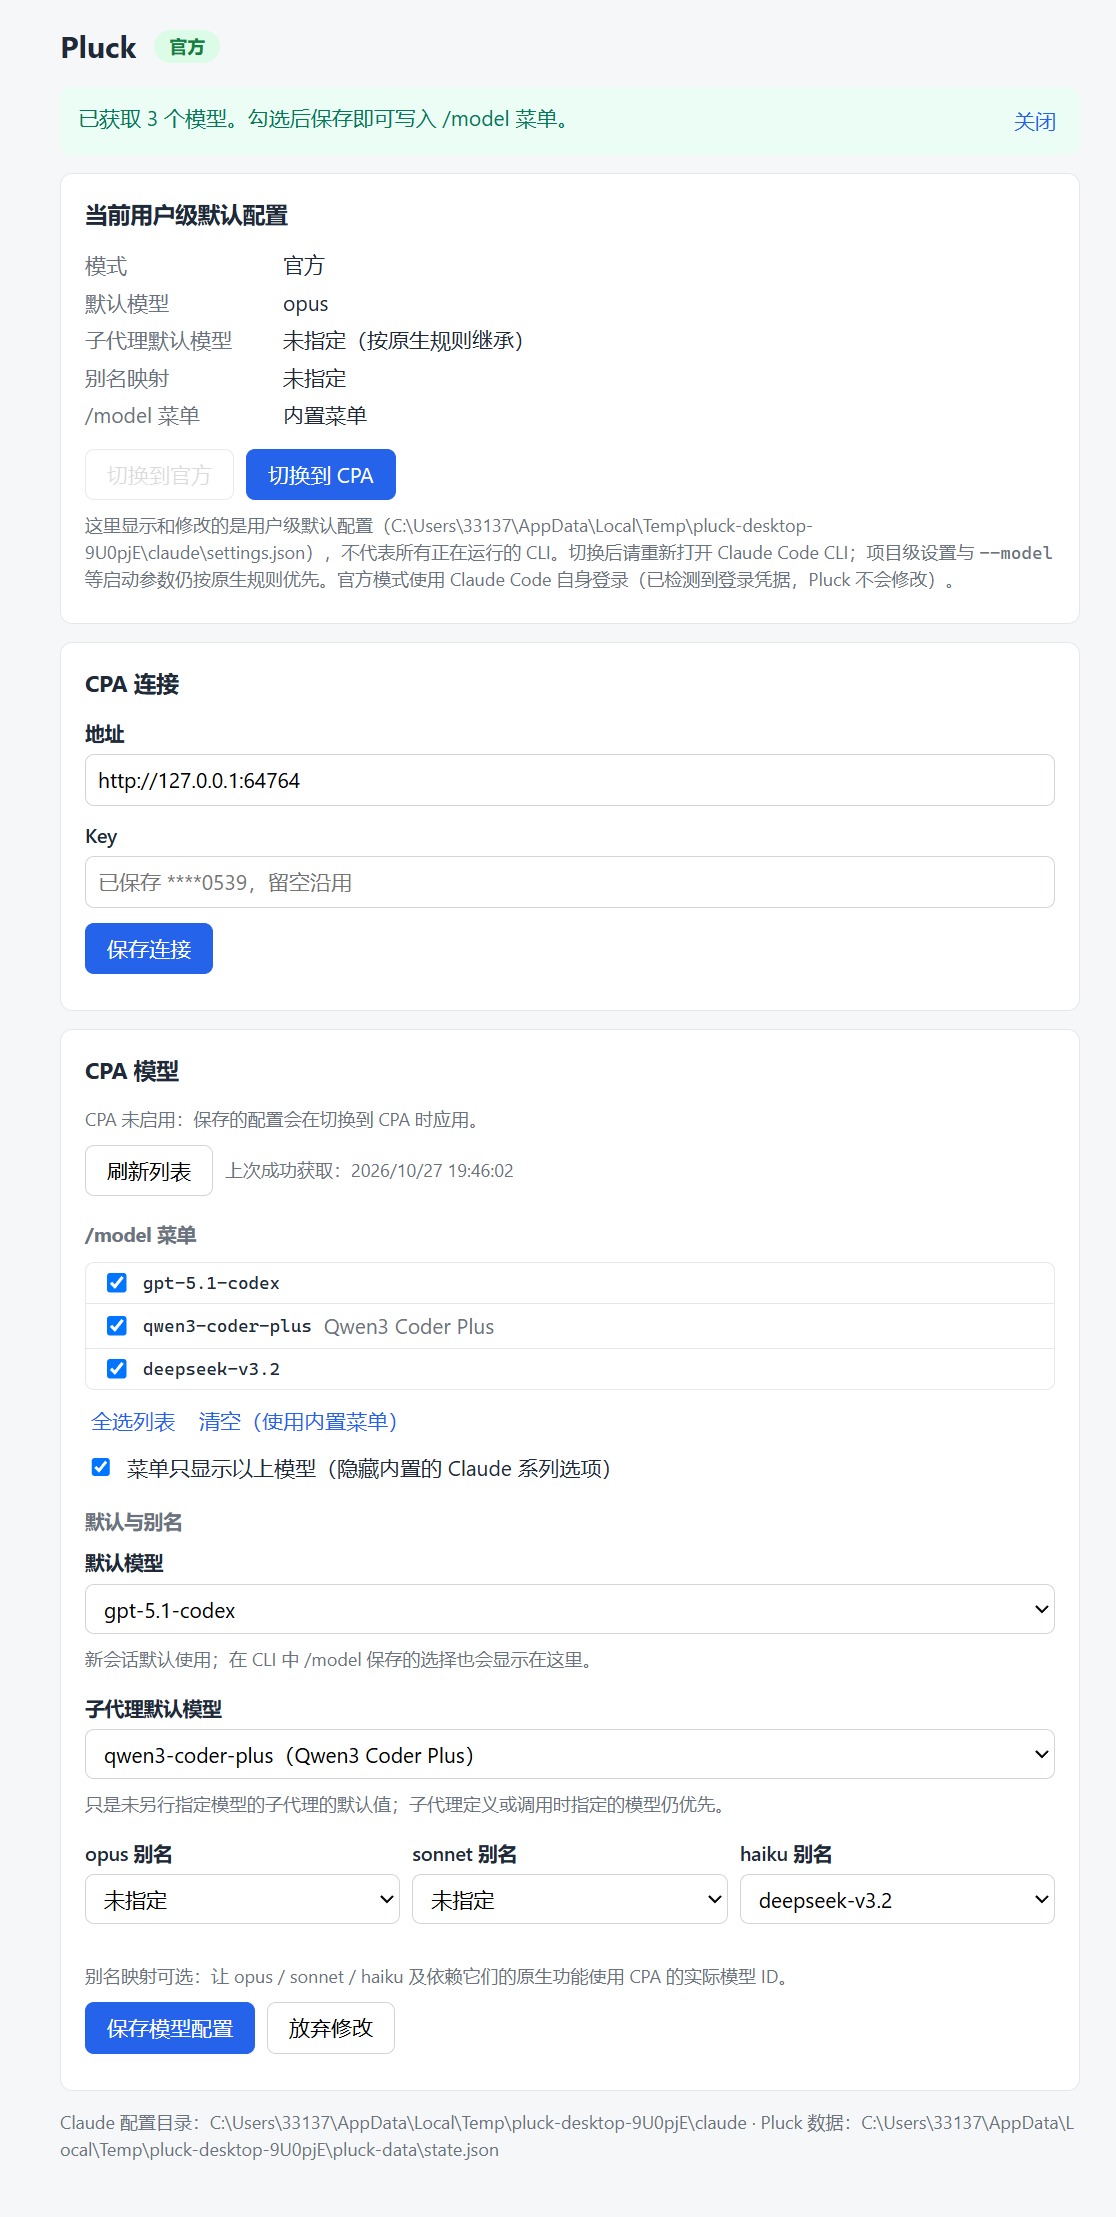
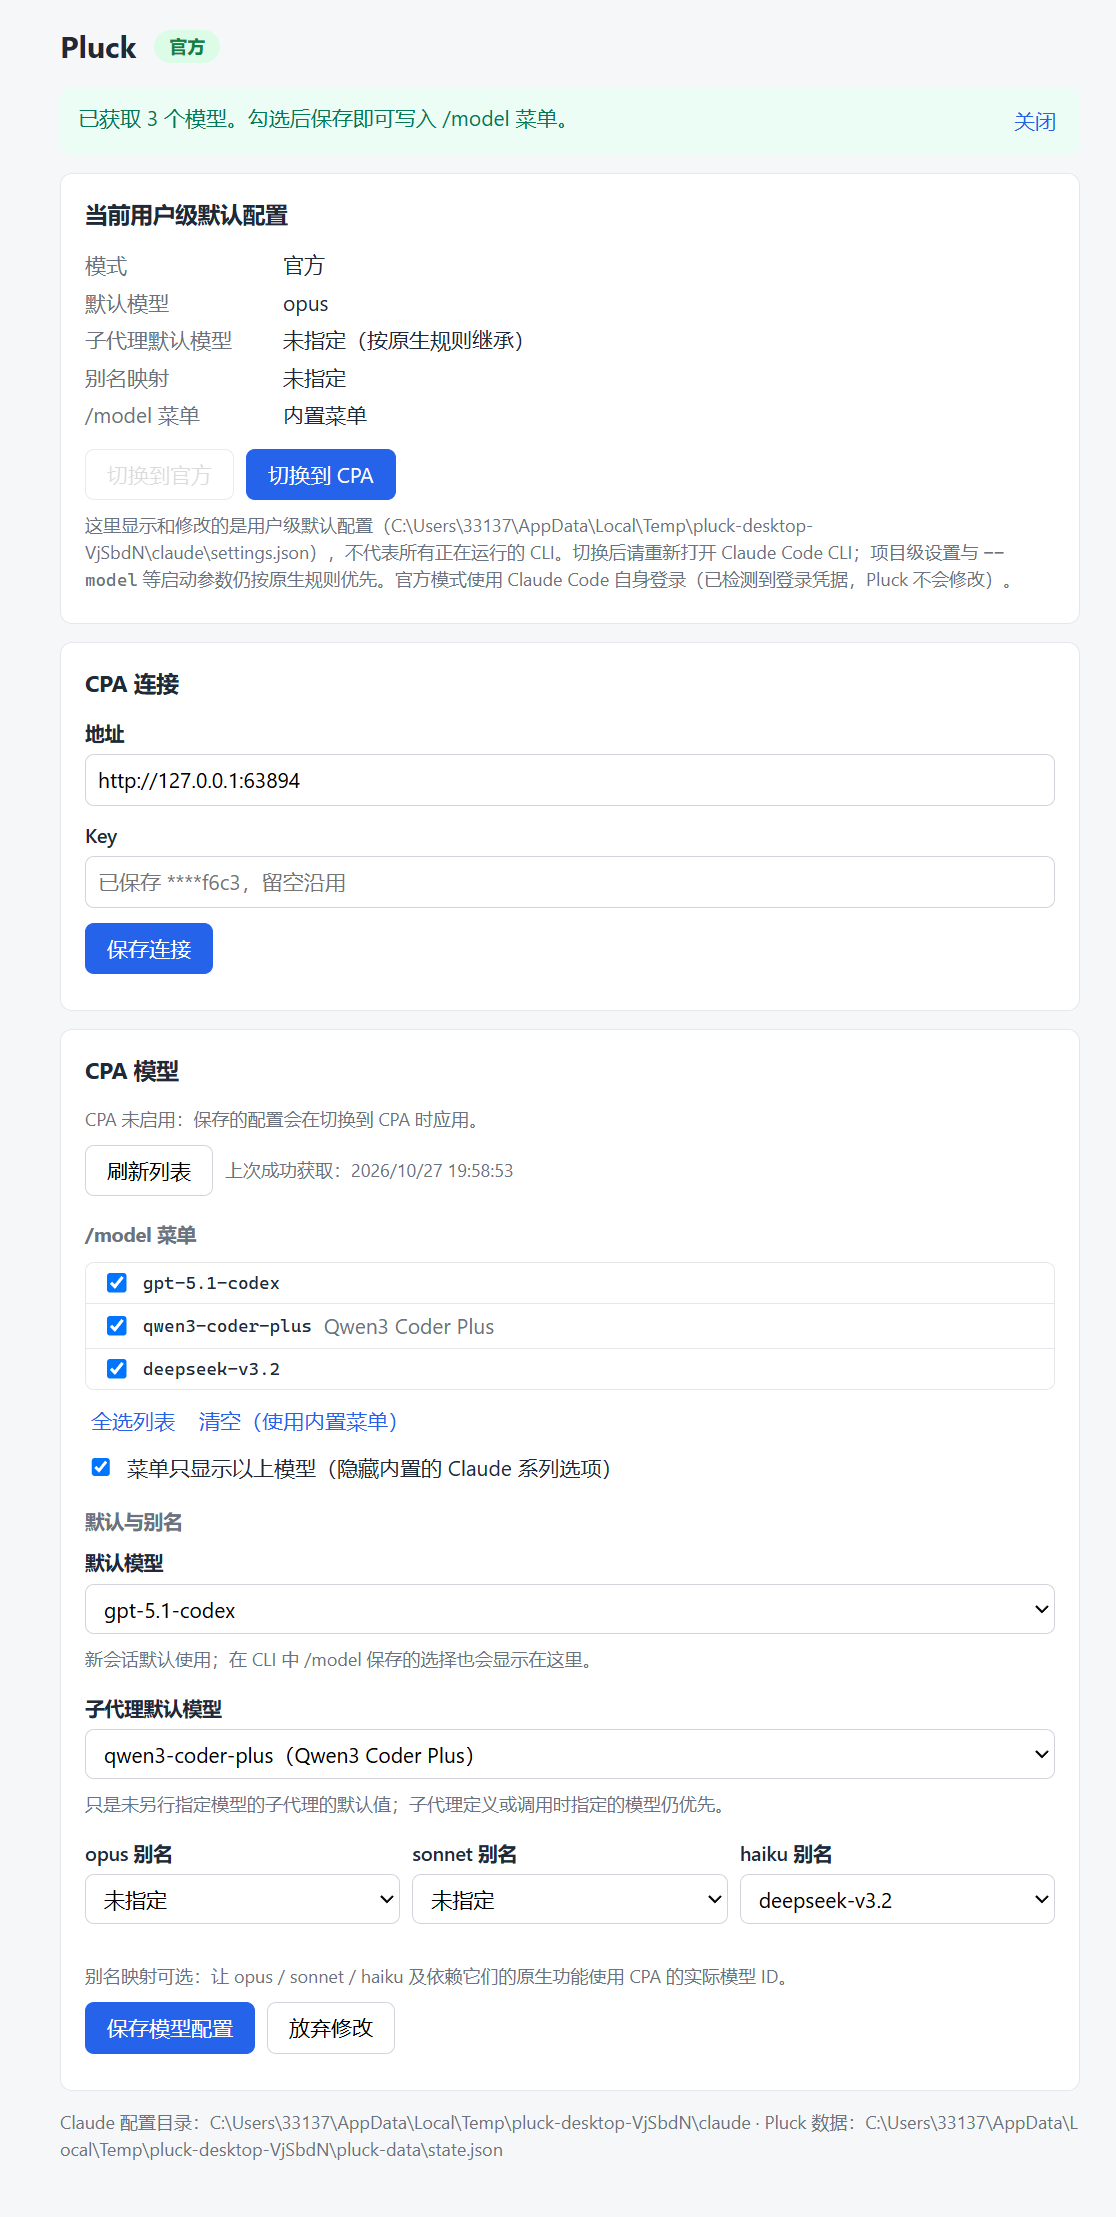
fix(service): 改 CPA 地址失败回滚时保留原模型列表
- 回滚用的原状态在清空模型列表之前取得
- 回归测试补充已有模型列表与获取时间的失败回滚断言（审查 S1-R2）
- 重建产物并重跑 CLI 32/32、桌面 34/34；记录 Copy-Item 保留修改时间导致 cargo 不重编的陷阱

Refs: pluck-ehl.1

diff --git a/src-tauri/tests/service_roundtrip.rs b/src-tauri/tests/service_roundtrip.rs
@@ -259,6 +259,16 @@ fn changing_active_cpa_is_consistent_when_either_file_fails() {
     let p = e.claude.join("settings.json");
     e.svc.save_cpa("http://127.0.0.1:18317", Some("k1")).unwrap();
     e.svc.switch(Mode::Cpa).unwrap();
+    // 已有成功获取的模型列表与时间（直接写入本机数据，等同此前一次获取）。
+    let mut state = read(&data);
+    state["models"] = json!([{"id": "gpt-5.1-codex", "displayName": null}, {"id": "qwen3-coder-plus", "displayName": "Qwen3"}]);
+    state["modelsFetchedAt"] = json!(123456);
+    fs::write(&data, serde_json::to_string_pretty(&state).unwrap()).unwrap();
+    let list_kept = |svc: &Service| {
+        let v = svc.model_view().unwrap();
+        v.models.len() == 2 && v.fetched_at == Some(123456)
+    };
+    assert!(list_kept(&e.svc));
 
     // 本机数据不可写。
     let settings_before = fs::read(&p).unwrap();
@@ -269,8 +279,9 @@ fn changing_active_cpa_is_consistent_when_either_file_fails() {
     assert_eq!(fs::read(&p).unwrap(), settings_before, "用户配置不应先被改写");
     let s = e.svc.status();
     assert_eq!((s.mode.as_str(), s.cpa_base_url.as_deref()), ("cpa", Some("http://127.0.0.1:18317")));
+    assert!(list_kept(&e.svc), "本机数据写入失败时模型列表保持");
 
-    // 用户配置不可写：本机数据恢复为原地址。
+    // 用户配置不可写：本机数据恢复为原地址与原列表。
     set_readonly(&p, true);
     let r = e.svc.save_cpa("http://127.0.0.1:18318", None);
     set_readonly(&p, false);
@@ -278,6 +289,7 @@ fn changing_active_cpa_is_consistent_when_either_file_fails() {
     assert_eq!(fs::read(&p).unwrap(), settings_before);
     let s = e.svc.status();
     assert_eq!((s.mode.as_str(), s.cpa_base_url.as_deref()), ("cpa", Some("http://127.0.0.1:18317")));
+    assert!(list_kept(&e.svc), "用户配置写入失败时模型列表与获取时间恢复");
 
     // 失败后仍能正常切换。
     assert_eq!(e.svc.switch(Mode::Official).unwrap().status.mode, "official");

diff --git a/src-tauri/src/service.rs b/src-tauri/src/service.rs
@@ -256,13 +256,14 @@ impl Service {
         let old_url = st.state.cpa.as_ref().map(|p| p.base_url.clone());
         let live_is_cpa = managed::detect(&loaded.doc, old_url.as_deref()) == Detected::Cpa
             || managed::detect(&loaded.doc, Some(&url)) == Detected::Cpa;
+        // 回滚用的完整原状态，必须在任何修改（包括清空模型列表）之前取得。
+        let previous = st.state.clone();
         let url_changed = old_url.as_deref() != Some(url.as_str());
         if url_changed {
             // 列表属于原来的服务，换地址后需重新获取。
             st.state.models.clear();
             st.state.models_fetched_at = None;
         }
-        let previous = st.state.clone();
         st.state.cpa = Some(CpaProfile { base_url: url.clone(), api_key: key.clone() });
         if live_is_cpa {
             // 两个文件必须一致：先保存本机数据，用户配置写入失败时恢复本机数据，

diff --git a/docs/verification/desktop-report.md b/docs/verification/desktop-report.md
@@ -1,6 +1,6 @@
 # 桌面验证报告
 
-- 时间：2026-10-27T11:48:03.980Z
+- 时间：2026-10-27T12:00:56.173Z
 - 操作系统：Windows 11 Pro 10.0.26200；AMD Ryzen 5 5600X 6-Core Processor             ，12 个逻辑核，内存 80 GiB
 - Claude Code：2.1.311 (Claude Code)
 - 产物：src-tauri\target\release\pluck.exe（4.9 MiB）
@@ -31,16 +31,16 @@
 | A5/A7 | 外部保存的默认模型自动显示在托盘 | 通过 | Pluck · CPA · qwen3-coder-plus |
 | A4/A5 | 模型控件显示实时文件中的 Y | 通过 | qwen3-coder-plus |
 | A3/A6 | 刷新失败在窗口提示并保留原列表 | 通过 | CPA 模型列表获取失败，已保留原列表：HTTP 500 Internal Server Error：{"error":"upstream unavailable"} 关闭 |
-| A6 | 窗口切换遇只读文件时提示失败且原文件不变 | 通过 | 写入 C:\Users\33137\AppData\Local\Temp\pluck-desktop-9U0pjE\claude\settings.json 失败，原文件未改动：文件为只读 关闭 |
+| A6 | 窗口切换遇只读文件时提示失败且原文件不变 | 通过 | 写入 C:\Users\33137\AppData\Local\Temp\pluck-desktop-VjSbdN\claude\settings.json 失败，原文件未改动：文件为只读 关闭 |
 | A6 | 托盘菜单显示上次操作失败原因 | 通过 | 上次操作：失败：写入 C:\Users\33137\AppData\Local\Temp\pluck-de… |
 | A6 | 托盘切换遇只读文件时原文件不变、状态仍为 CPA | 通过 |  |
-| A6 | 托盘失败结果同步到窗口 | 通过 | 托盘：写入 C:\Users\33137\AppData\Local\Temp\pluck-desktop-9U0pjE\claude\settings.json 失败，原文件未改动：文件为只读 关闭 |
+| A6 | 托盘失败结果同步到窗口 | 通过 | 托盘：写入 C:\Users\33137\AppData\Local\Temp\pluck-desktop-VjSbdN\claude\settings.json 失败，原文件未改动：文件为只读 关闭 |
 | A6 | 损坏的配置在窗口与托盘显示为无法读取 | 通过 |  |
-| A6 | 损坏时托盘显示无法读取、切换项不可用，文件不被覆盖 | 通过 | 用户配置无法读取 / C:\Users\33137\AppData\Local\Temp\pluck-desktop-9U0pjE\claud… / 切换到官方 / 切换到 CPA / 上次操作：失败：写入 C:\Users\33137\AppData\Local\Temp\pluck-de… / 打开配置窗口 / 退出 Pluck |
+| A6 | 损坏时托盘显示无法读取、切换项不可用，文件不被覆盖 | 通过 | 用户配置无法读取 / C:\Users\33137\AppData\Local\Temp\pluck-desktop-VjSbdN\claud… / 切换到官方 / 切换到 CPA / 上次操作：失败：写入 C:\Users\33137\AppData\Local\Temp\pluck-de… / 打开配置窗口 / 退出 Pluck |
 | A1 | 关闭窗口后窗口隐藏、Pluck 仍在托盘常驻 | 通过 |  |
 | A1 | 托盘单击重新打开配置窗口 | 通过 |  |
 | A1 | 托盘“退出 Pluck”结束进程 | 通过 |  |
-| A1 | 重开后读回 CPA 模式、地址、模型与列表 | 通过 | http://127.0.0.1:64764, 3 |
+| A1 | 重开后读回 CPA 模式、地址、模型与列表 | 通过 | http://127.0.0.1:63894, 3 |
 | A1 | 重开后托盘状态正确 | 通过 | Pluck · CPA · qwen3-coder-plus |
 | A2 | 最终切回官方：其他设置保留，凭据不变 | 通过 |  |
 | D3 | 本机数据保存 Key，官方模式用户配置不含 Key | 通过 |  |
@@ -49,14 +49,14 @@
 
 | 项目 | 数值 |
 | --- | --- |
-| 首次：启动到窗口显示状态 | 2651 ms |
-| 获取模型列表响应 | 58 ms |
-| 窗口切换官方→CPA（点击到结果显示） | 59 ms |
-| 托盘切换 CPA→官方（点击菜单到文件写入） | 170 ms |
-| 托盘切换 官方→CPA（点击菜单到文件写入） | 188 ms |
-| 重开：启动到窗口显示状态 | 3892 ms |
-| 正常启动到窗口出现（无远程调试） | 1154 ms |
-| 窗口打开时：进程数 / 工作集 / 专用内存 | 7 / 383.4 MiB / 402.8 MiB |
-| 托盘常驻（窗口关闭 30 秒后）：进程数 / 工作集 / 专用内存 | 7 / 398.6 MiB / 405.5 MiB |
-| 其中 pluck.exe 主进程：工作集 / 专用内存 | 40.1 MiB / 64.7 MiB |
-| 托盘常驻 CPU（10 秒采样） | 0.01%（占 12 个逻辑核） |
+| 首次：启动到窗口显示状态 | 3186 ms |
+| 获取模型列表响应 | 57 ms |
+| 窗口切换官方→CPA（点击到结果显示） | 60 ms |
+| 托盘切换 CPA→官方（点击菜单到文件写入） | 188 ms |
+| 托盘切换 官方→CPA（点击菜单到文件写入） | 226 ms |
+| 重开：启动到窗口显示状态 | 2807 ms |
+| 正常启动到窗口出现（无远程调试） | 1275 ms |
+| 窗口打开时：进程数 / 工作集 / 专用内存 | 7 / 360.5 MiB / 395.0 MiB |
+| 托盘常驻（窗口关闭 30 秒后）：进程数 / 工作集 / 专用内存 | 7 / 394.0 MiB / 403.3 MiB |
+| 其中 pluck.exe 主进程：工作集 / 专用内存 | 39.9 MiB / 64.1 MiB |
+| 托盘常驻 CPU（10 秒采样） | 0.00%（占 12 个逻辑核） |

diff --git a/docs/verification/first-release.md b/docs/verification/first-release.md
@@ -6,7 +6,7 @@
 
 | 入口 | 覆盖 | 结果 |
 | --- | --- | --- |
-| `pnpm test:rust` | 读写校验、BOM/CRLF、外部修改、只读、Windows 文件占用、切换往返与字段保留、未知连接拒写、CPA 使用中改地址时任一文件写入失败的一致性、旧草稿不覆盖往返中记录的 CLI 保存值、CPA 响应解析与失败 | 28 项通过 |
+| `pnpm test:rust` | 读写校验、BOM/CRLF、外部修改、只读、Windows 文件占用、切换往返与字段保留、未知连接拒写、CPA 使用中改地址时任一文件写入失败的一致性（含已有模型列表与获取时间）、旧草稿不覆盖往返中记录的 CLI 保存值、CPA 响应解析与失败 | 28 项通过 |
 | `pnpm verify:cli` | CPA 替身 + 服务层 + 真实 CLI：列表获取与失败、`/model` 菜单显示与选择实际 ID、CLI 保存的 Y 在往返与重开后保留、会话临时选择不落盘、项目级与 `--model` 覆盖、凭据不变 | 32/32，[报告](cli-report.md) |
 | `pnpm verify:desktop` | `pluck.exe` 实际运行：窗口编辑与切换、托盘状态/菜单/切换/打开/退出、外部修改同步、列表获取失败、只读与损坏文件、关闭后常驻、重开读回 | 34/34，[报告](desktop-report.md) |
 | `pnpm tauri build` | 构建 `pluck.exe` 与 NSIS 安装包 `Pluck_0.1.0_x64-setup.exe`（1.9 MiB） | 成功 |

diff --git a/docs/verification/cli-report.md b/docs/verification/cli-report.md
@@ -1,6 +1,6 @@
 # CLI 隔离验证报告
 
-- 时间：2026-10-27T11:45:52.584Z
+- 时间：2026-10-27T11:58:41.424Z
 - 操作系统：Windows 11 Pro 10.0.26200
 - Claude Code：2.1.311 (Claude Code)
 - 结果：32/32 通过
@@ -34,7 +34,7 @@
 | A7 | 启动参数 --model 覆盖用户级默认 | 通过 | gpt-5.1-codex |
 | A7 | 切换不改写项目级设置 | 通过 |  |
 | A4 | 取消子代理默认与别名后移除对应原生配置 | 通过 |  |
-| A6 | 损坏的 settings.json 拒绝切换且不被覆盖 | 通过 | C:\Users\33137\AppData\Local\Temp\pluck-verify-gZcrZ5\claude\settings.json 无法解析，已停止写入以免覆盖原有设置：EOF while parsing a value at line 1 column 21 |
+| A6 | 损坏的 settings.json 拒绝切换且不被覆盖 | 通过 | C:\Users\33137\AppData\Local\Temp\pluck-verify-J2v08O\claude\settings.json 无法解析，已停止写入以免覆盖原有设置：EOF while parsing a value at line 1 column 21 |
 | A6 | 损坏时状态显示为无法读取 | 通过 |  |
 | A6 | 恢复文件后可继续读取 | 通过 |  |
 | A2 | 全程官方凭据文件不变 | 通过 |  |

diff --git a/AGENTS.md b/AGENTS.md
@@ -11,3 +11,4 @@
 - 桌面验证要求会话未锁屏（锁屏时截屏报“句柄无效”、通知区域无法展开）。
 - `pnpm tauri build` 运行期间不要执行 `pnpm add` / `pnpm install`，否则 `node_modules/.bin` 被替换导致构建结尾报错。
 - PowerShell 脚本含中文时保存为 UTF-8 BOM；字符串中不要用中文弯引号 `“”`，PowerShell 会把它当作字符串定界符。
+- 用 `Copy-Item` 把旧版本源文件换回或换出时会保留原修改时间，cargo 可能不重新编译而沿用旧产物；换文件后更新修改时间（或 `cargo clean -p pluck`）再测。
